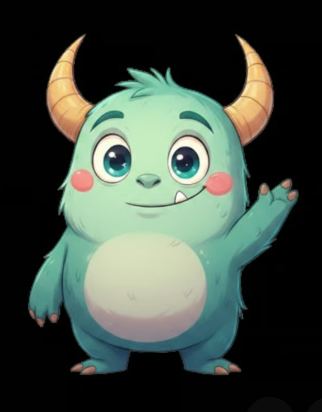
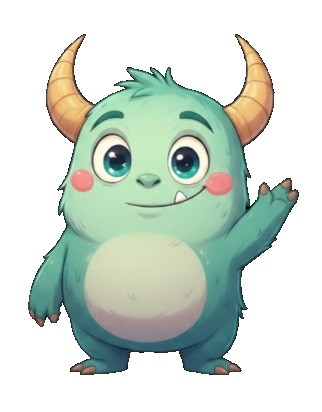
fix: resolve alpha transparency issues on all 16 sprites

diff --git a/app/(tabs)/index.tsx b/app/(tabs)/index.tsx
@@ -28,13 +28,6 @@ const STAGE_LABELS: Record<EvolutionStage, string> = {
   ascended: 'Ascended ✨',
 };
 
-const MOOD_OVERLAY_COLOR: Record<PetMood, string | null> = {
-  thriving: 'rgba(255,215,0,0.15)',
-  happy:    null,
-  neutral:  null,
-  sad:      'rgba(100,120,180,0.20)',
-  sick:     'rgba(80,180,80,0.25)',
-};
 
 // ─── Dimensions ──────────────────────────────────────────────────────────────
 
@@ -645,8 +638,6 @@ export default function HomeScreen() {
     mood === 'neutral' ? 0.9 : 1,
   );
 
-  const overlayColor = MOOD_OVERLAY_COLOR[mood];
-
   // Stage-based shadow intensity
   const isAdult = evolutionStage === 'adult' || evolutionStage === 'ascended';
   const shadowStyle = isAdult
@@ -708,12 +699,6 @@ export default function HomeScreen() {
           style={styles.monsterImage}
           resizeMode="contain"
         />
-        {overlayColor !== null && (
-          <View
-            pointerEvents="none"
-            style={[styles.moodOverlay, { backgroundColor: overlayColor }]}
-          />
-        )}
       </Animated.View>
 
       {/* ── Bottom panel ── */}
@@ -842,12 +827,6 @@ const styles = StyleSheet.create({
     width: IMAGE_SIZE,
     height: IMAGE_SIZE,
     aspectRatio: 1,
-  },
-  moodOverlay: {
-    position: 'absolute',
-    width: IMAGE_SIZE,
-    height: IMAGE_SIZE,
-    borderRadius: IMAGE_SIZE * 0.1,
   },
   bottomPanel: {
     position: 'absolute',

diff --git a/app/(tabs)/_layout.tsx b/app/(tabs)/_layout.tsx
@@ -46,6 +46,14 @@ export default function TabLayout() {
           tabBarBadgeStyle: { backgroundColor: tabTint },
         }}
       />
+      {/* TODO: DEV ONLY — remove this Tabs.Screen before launch */}
+      <Tabs.Screen
+        name="debug-sprites"
+        options={{
+          title: 'Sprites',
+          tabBarIcon: ({ color }) => <IconSymbol size={28} name="ladybug" color={color} />,
+        }}
+      />
     </Tabs>
   );
 }

diff --git a/components/ui/icon-symbol.tsx b/components/ui/icon-symbol.tsx
@@ -20,6 +20,8 @@ const MAPPING = {
   'chevron.left.forwardslash.chevron.right': 'code',
   'chevron.right': 'chevron-right',
   'bag.fill': 'shopping-bag',
+  // TODO: DEV ONLY — remove 'ladybug' mapping before launch
+  'ladybug': 'bug-report',
 } as IconMapping;
 
 /**
